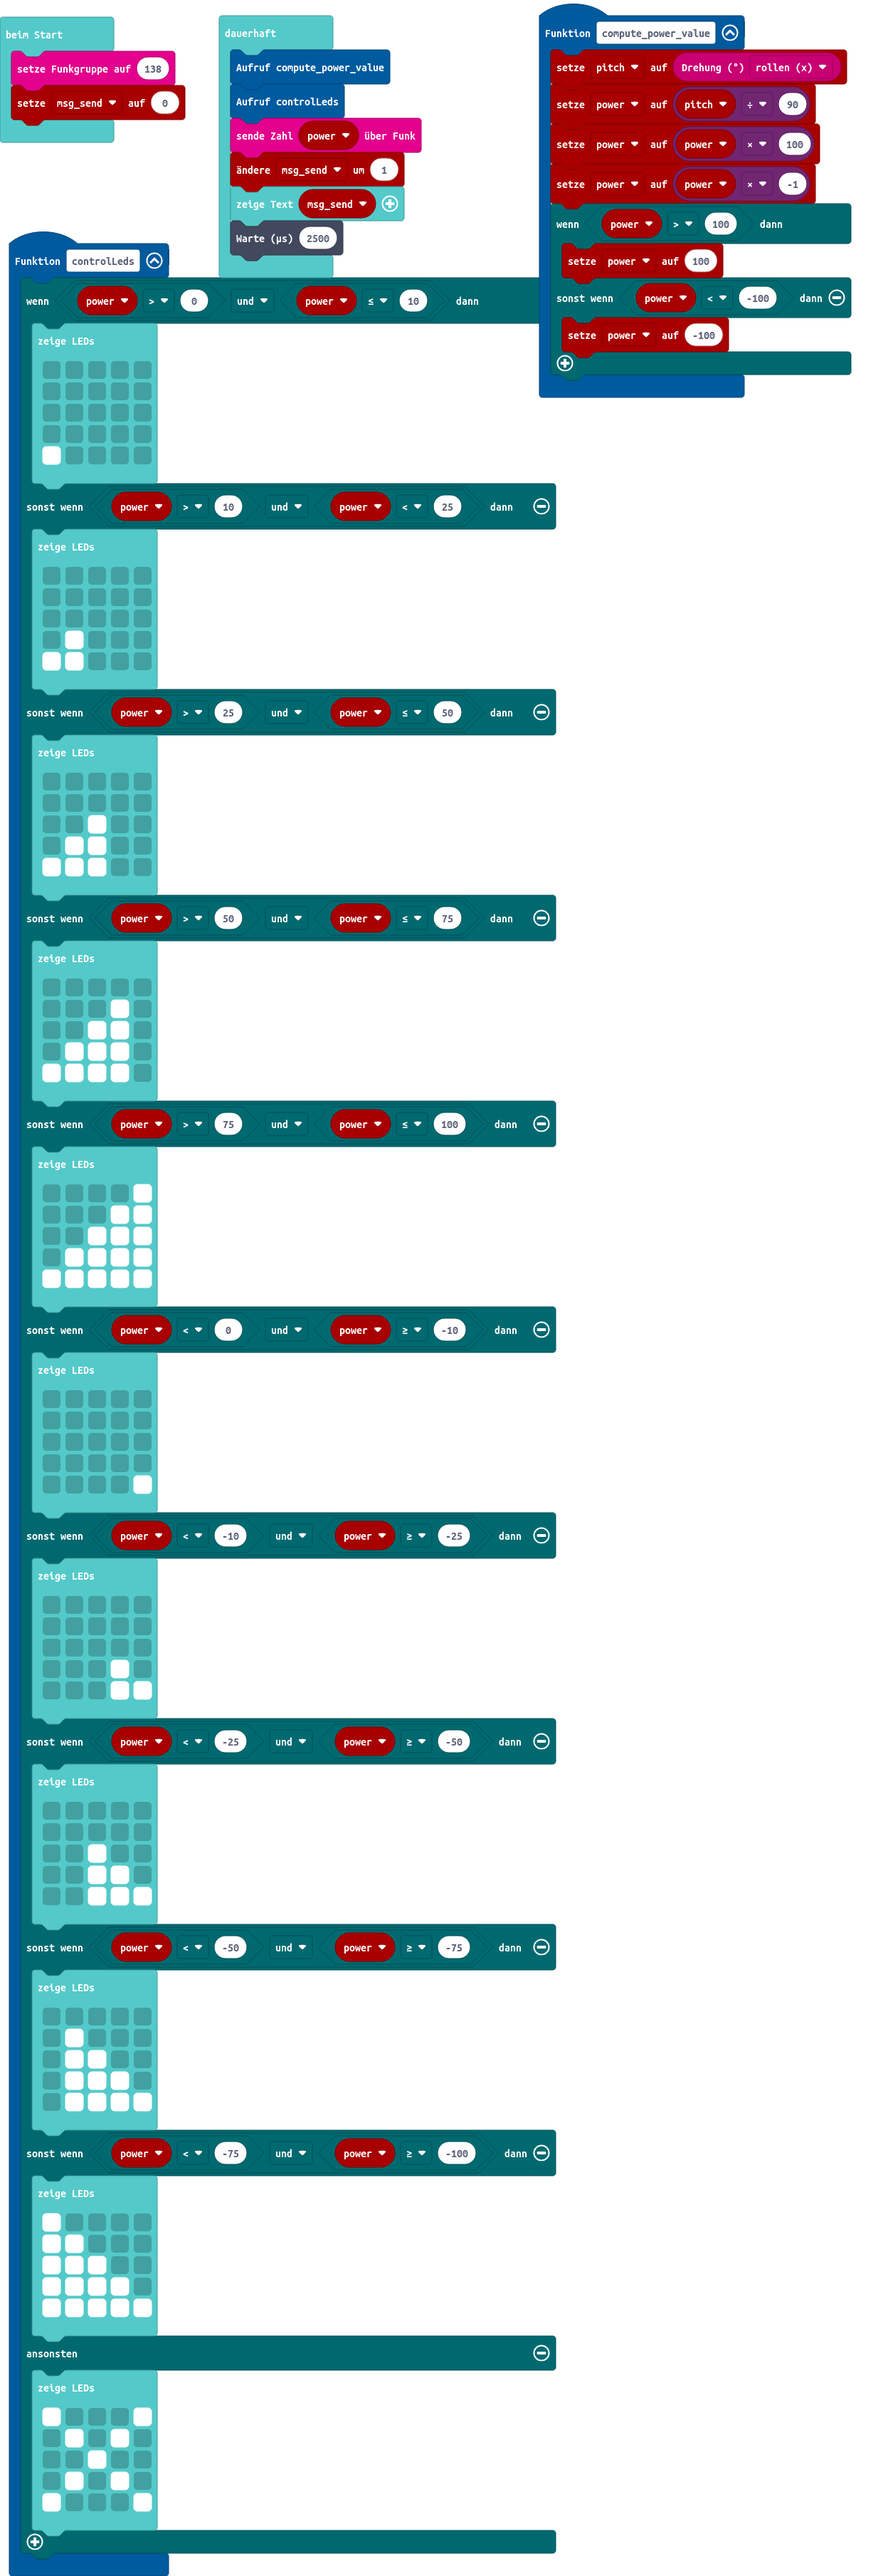
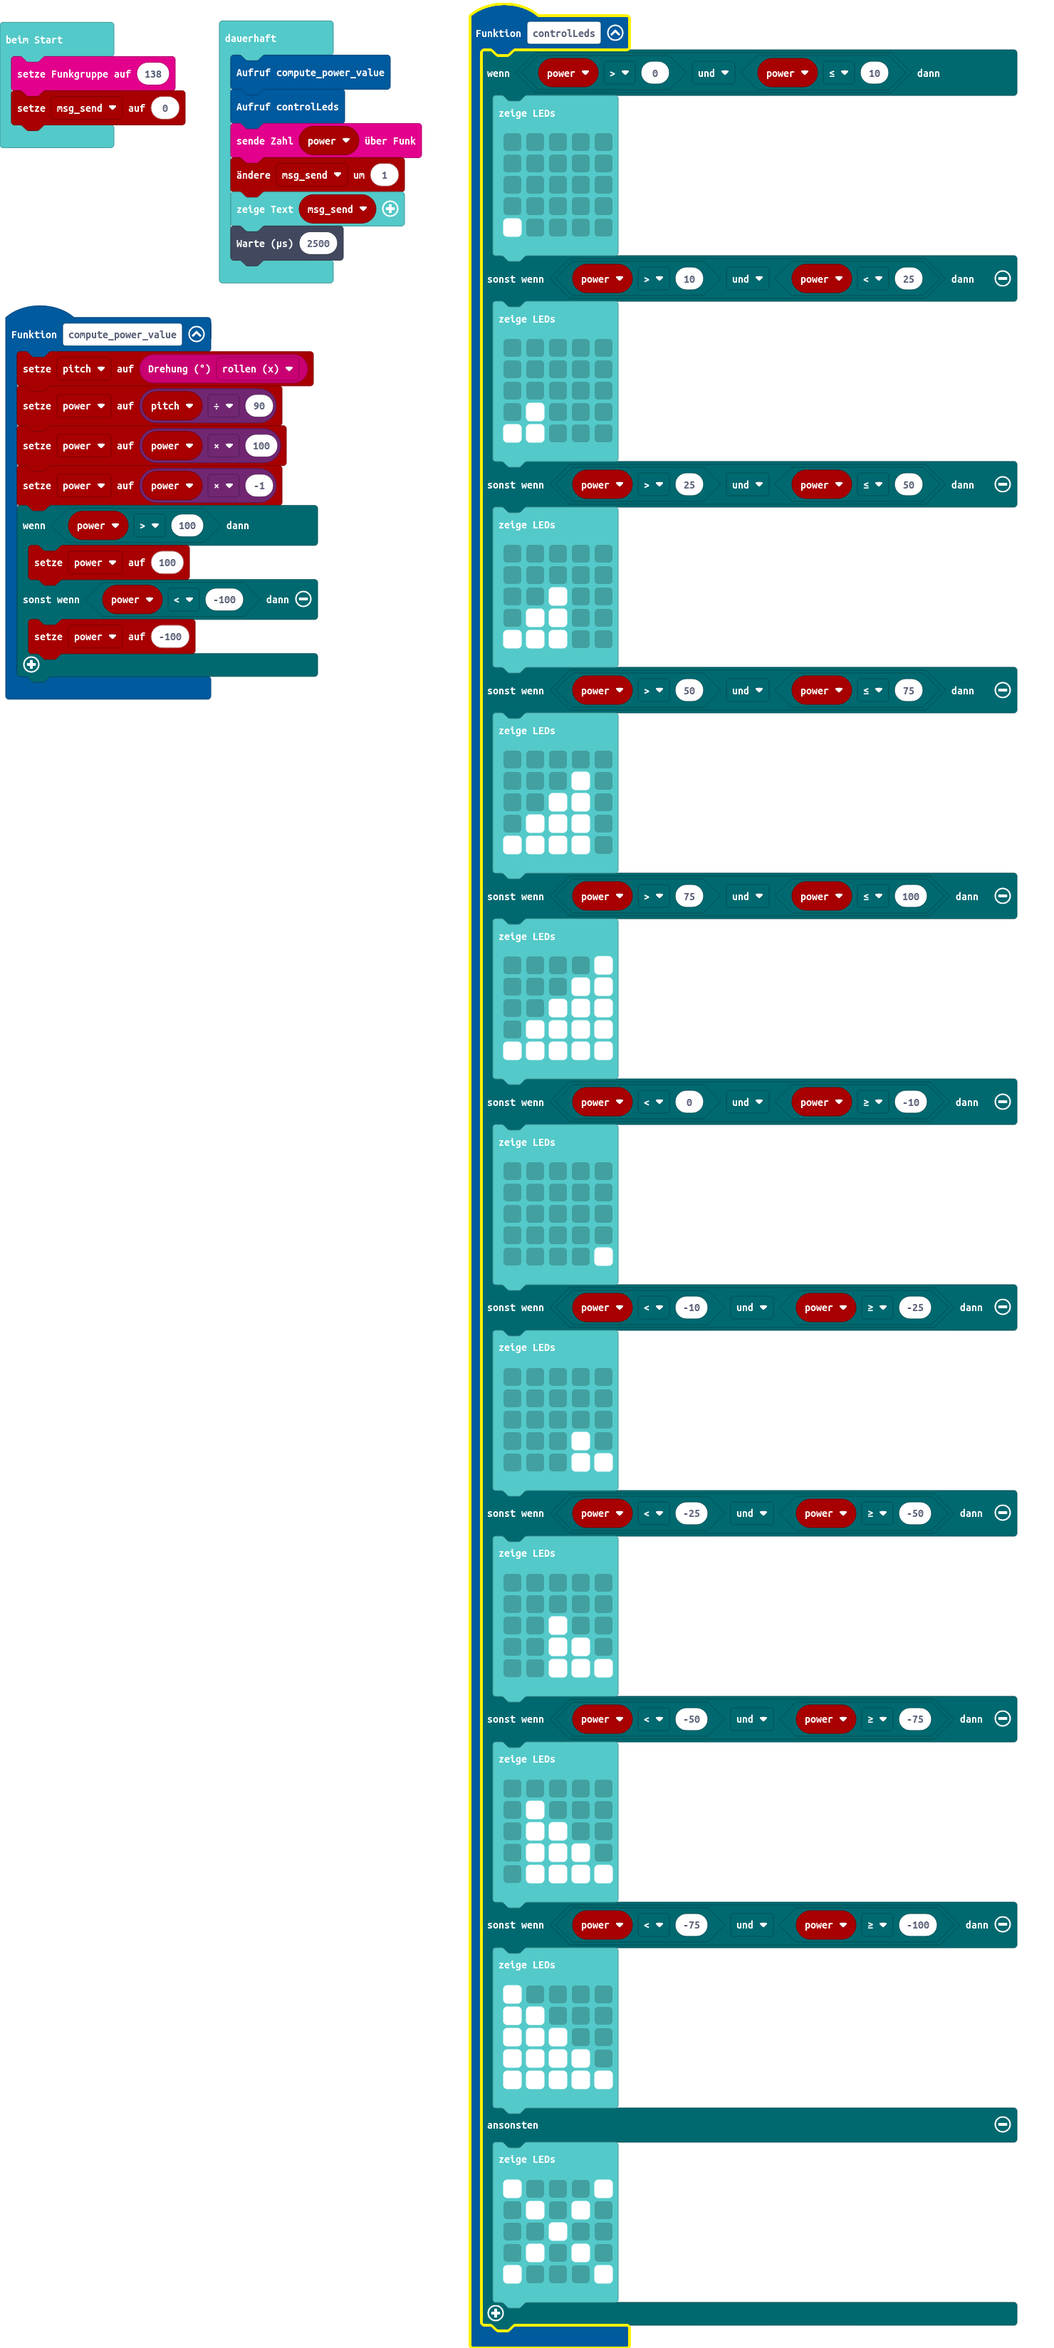
Aktualisiere pxt.json, main.blocks, main.ts, main.py

diff --git a/main.ts b/main.ts
@@ -1,4 +1,4 @@
-function controlLeds () {
+function controlLeds() {
     if (power > 0 && power <= 10) {
         basic.showLeds(`
             . . . . .
@@ -88,8 +88,11 @@ function controlLeds () {
             # . . . #
             `)
     }
+    
 }
-function compute_power_value () {
+
+function compute_power_value() {
+    
     pitch = input.rotation(Rotation.Roll)
     power = pitch / 90
     power = power * 100
@@ -99,16 +102,19 @@ function compute_power_value () {
     } else if (power < -100) {
         power = -100
     }
+    
 }
+
 let pitch = 0
 let power = 0
 radio.setGroup(138)
 let msg_send = 0
-basic.forever(function () {
+basic.forever(function on_forever() {
+    
     compute_power_value()
     controlLeds()
     radio.sendNumber(power)
     msg_send += 1
-    basic.showString("" + (msg_send))
+    basic.showString("" + ("" + msg_send))
     control.waitMicros(2500)
 })

diff --git a/main.py b/main.py
@@ -1,16 +1,113 @@
-pitch = 0
-power = 0
+def controlLeds():
+    if power > 0 and power <= 10:
+        basic.show_leds("""
+            . . . . .
+            . . . . .
+            . . . . .
+            . . . . .
+            # . . . .
+            """)
+    elif power > 10 and power < 25:
+        basic.show_leds("""
+            . . . . .
+            . . . . .
+            . . . . .
+            . # . . .
+            # # . . .
+            """)
+    elif power > 25 and power <= 50:
+        basic.show_leds("""
+            . . . . .
+            . . . . .
+            . . # . .
+            . # # . .
+            # # # . .
+            """)
+    elif power > 50 and power <= 75:
+        basic.show_leds("""
+            . . . . .
+            . . . # .
+            . . # # .
+            . # # # .
+            # # # # .
+            """)
+    elif power > 75 and power <= 100:
+        basic.show_leds("""
+            . . . . #
+            . . . # #
+            . . # # #
+            . # # # #
+            # # # # #
+            """)
+    elif power < 0 and power >= -10:
+        basic.show_leds("""
+            . . . . .
+            . . . . .
+            . . . . .
+            . . . . .
+            . . . . #
+            """)
+    elif power < -10 and power >= -25:
+        basic.show_leds("""
+            . . . . .
+            . . . . .
+            . . . . .
+            . . . # .
+            . . . # #
+            """)
+    elif power < -25 and power >= -50:
+        basic.show_leds("""
+            . . . . .
+            . . . . .
+            . . # . .
+            . . # # .
+            . . # # #
+            """)
+    elif power < -50 and power >= -75:
+        basic.show_leds("""
+            . . . . .
+            . # . . .
+            . # # . .
+            . # # # .
+            . # # # #
+            """)
+    elif power < -75 and power >= -100:
+        basic.show_leds("""
+            # . . . .
+            # # . . .
+            # # # . .
+            # # # # .
+            # # # # #
+            """)
+    else:
+        basic.show_leds("""
+            # . . . #
+            . # . # .
+            . . # . .
+            . # . # .
+            # . . . #
+            """)
 def compute_power_value():
     global pitch, power
     pitch = input.rotation(Rotation.ROLL)
     power = pitch / 90
     power = power * 100
+    power = power * -1
     if power > 100:
         power = 100
     elif power < -100:
         power = -100
-    basic.show_string("" + str((power)))
+pitch = 0
+power = 0
+radio.set_group(138)
+msg_send = 0
 
 def on_forever():
+    global msg_send
     compute_power_value()
+    controlLeds()
+    radio.send_number(power)
+    msg_send += 1
+    basic.show_string("" + str((msg_send)))
+    control.wait_micros(2500)
 basic.forever(on_forever)
